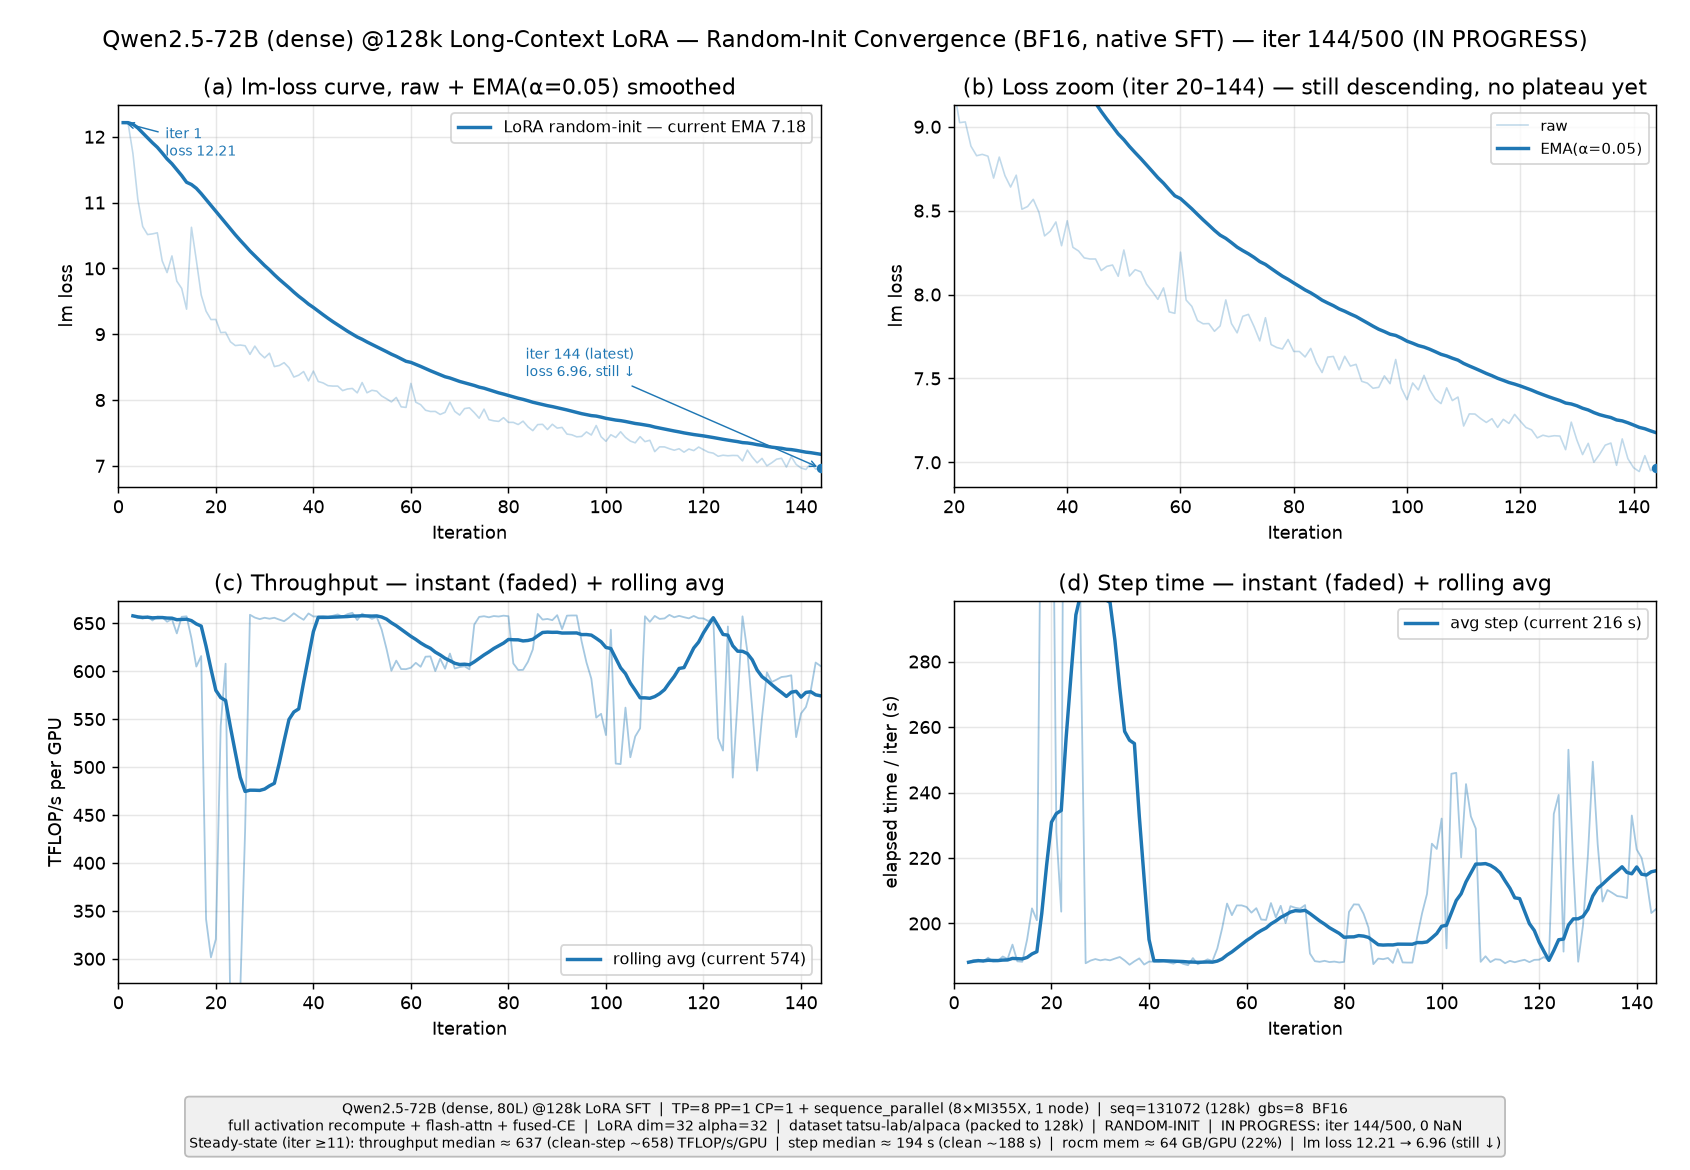
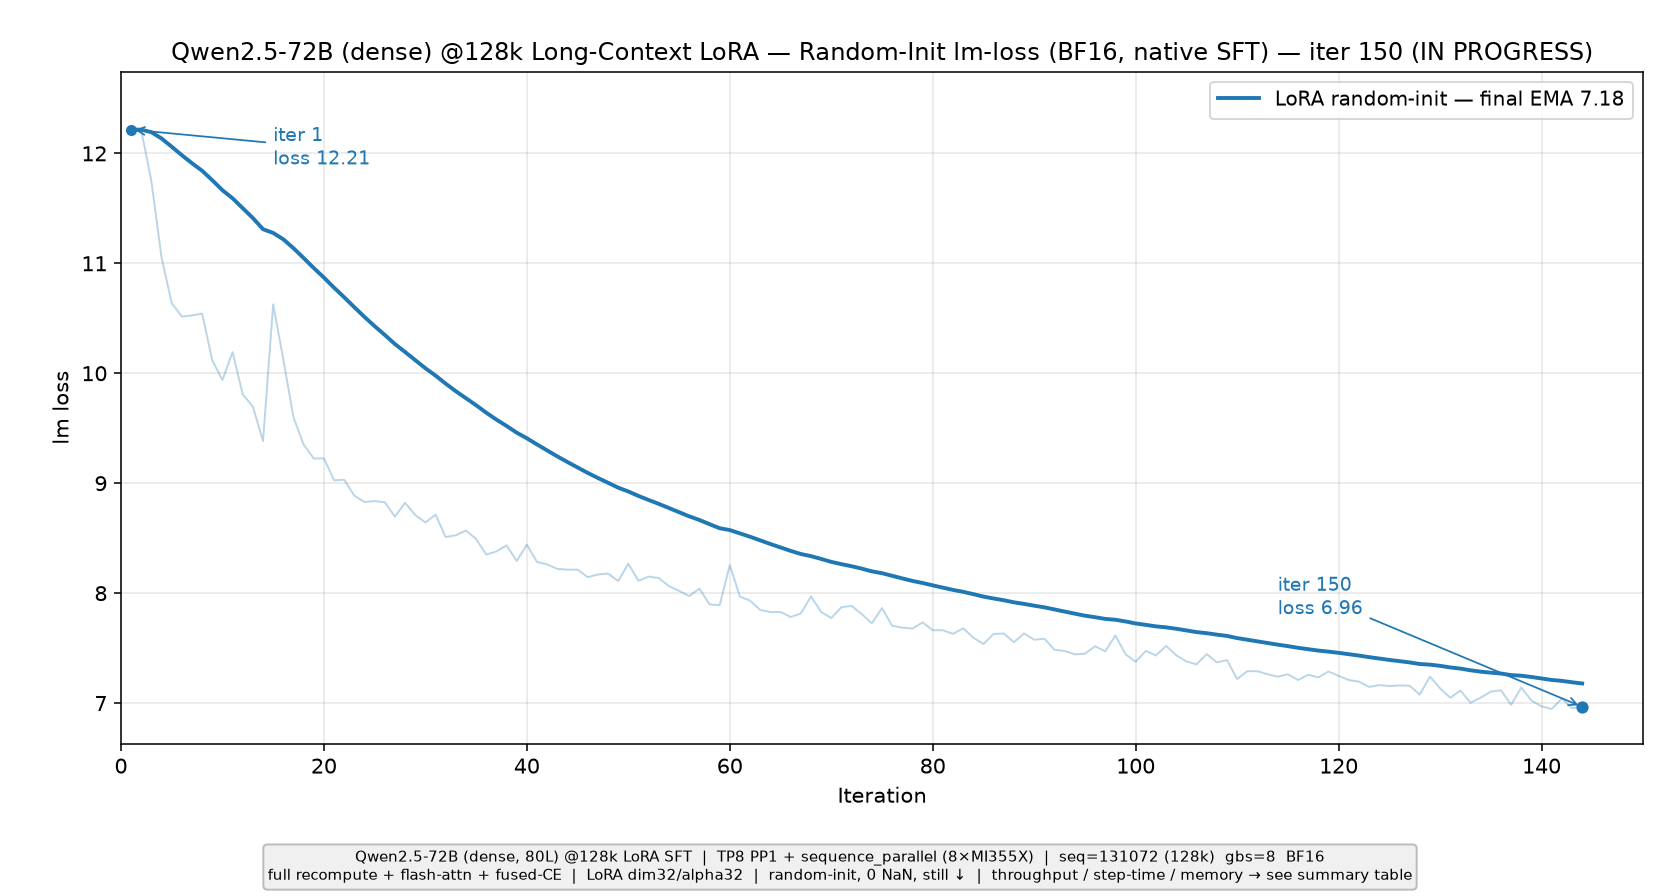
Section 7: single loss-curve figures; 72B fields 144->150; polish

diff --git a/README.md b/README.md
@@ -350,15 +350,15 @@ iteration        5/      20 | elapsed time per iteration (ms): 35000.0 | through
 
 ## 7. 实验结果
 
-本节给出**两个**实验的实测结果，均为**单节点 8×MI355X、随机初始化、Primus 原生 SFT-LoRA（BF16）** 路径，各自附「4 面板收敛/吞吐图 + 结果指标汇总表」：**7.1** 为 Qwen3-235B-A22B (MoE) 已完整跑完 500 步的单机 LoRA；**7.2** 为 Qwen2.5-72B 在 **128k 长上下文**下的 LoRA（作业仍在训练中，用当前数据）。
+本节给出**两个**实验的实测结果，均为**单节点 8×MI355X、随机初始化、Primus 原生 SFT-LoRA（BF16）** 路径，各自附「`lm loss` 收敛曲线图 + 结果指标汇总表」（吞吐、单步耗时、显存等稳态指标列在各自的汇总表里）：**7.1** 为 Qwen3-235B-A22B (MoE) 已完整跑完 500 步的单机 LoRA；**7.2** 为 Qwen2.5-72B 在 **128k 长上下文**下的 LoRA（作业仍在训练中，用当前数据）。
 
 ### 7.1 Qwen3-235B-A22B (MoE) 单机 LoRA
 
-把 `train_iters` 调大到 **500** 跑完整收敛，本次作业已**完整跑完 500/500 步**（全程 **0 NaN**，训练墙钟约 **5.2 小时**）。随机初始化 LoRA 的 `lm loss` 从第 1 步的 **12.06** 快速下降，约在**第 60–80 步**进入 **~9.4** 的平台（随机基座 + 低秩 LoRA 能达到的固有下限，之后不再明显下降），最终第 500 步收在 **9.41**；稳态单卡吞吐中位数约 **272 TFLOP/s/GPU**、单步约 **35.7 s**、每卡显存约 **206 GB / 288 GB**：
+把 `train_iters` 调大到 **500** 跑完整收敛，本次作业已**完整跑完 500/500 步**（全程 **0 NaN**，训练墙钟约 **5.2 小时**）。随机初始化 LoRA 的 `lm loss` 从第 1 步的 **12.06** 快速下降，约在**第 60–80 步**进入 **~9.4** 的平台（随机基座 + 低秩 LoRA 能达到的固有下限，之后不再明显下降），最终第 500 步收在 **9.41**。下图为完整 500 步的 `lm loss` 收敛曲线（稳态吞吐、单步耗时、每卡显存等见后面的汇总表）：
 
-![Qwen3-235B-A22B LoRA 收敛与吞吐总结](qwen3_235b_lora_convergence_summary.png)
+![Qwen3-235B-A22B LoRA lm loss 收敛曲线](qwen3_235b_lora_convergence_summary.png)
 
-> 图中 (a) 为完整 500 步 loss 曲线（淡线原始值 + 粗线 EMA 平滑），(b) 为稳态区放大（EMA 缓降至 ~9.4 平台），(c)/(d) 分别为单卡吞吐与单步耗时（淡线瞬时值、粗线 15 步滑动平均）。第 212 步有一次孤立的 I/O 卡顿（单步 ~486 s、吞吐骤降），已落在 (c)/(d) 纵轴范围之外，不影响整体判断。
+> 图为完整 500 步的 `lm loss` 曲线：淡线为原始逐步值、粗线为 EMA(α=0.05) 平滑；已标注 iter 1（12.06）与 iter 500（9.41）。稳态吞吐、单步耗时与每卡显存等指标见下方汇总表。
 
 #### 结果指标汇总表
 
@@ -381,11 +381,11 @@ iteration        5/      20 | elapsed time per iteration (ms): 35000.0 | through
 
 ### 7.2 Qwen2.5-72B @128k 长上下文 LoRA
 
-**Qwen2.5-72B（稠密 dense，80 层）在 128k 长上下文下的 LoRA SFT**（BF16、随机初始化、单节点 8×MI355X）。与 7.1 最大的不同是**极长序列**：`seq_length=131072`（128k）、`global_batch_size=8`（每步约 **105 万 token**），靠 **TP=8 + `sequence_parallel`**（不用 CP —— 原生 SFT 前向暂不支持 CP 序列切分）配合**全量激活重算 + flash-attn + 融合 CE**，把每卡显存压到约 **64 GB**。该作业**仍在训练中**，下图与下表均为**截至 iter 150** 的实测快照：`lm loss` 从第 1 步的 **12.21** 持续降到当前的 **6.96**（**仍在下降、尚未走平**）；稳态吞吐洁净步约 **655 TFLOP/s/GPU**（中位数 637、均值 605，含周期性掉速），洁净步单步约 **188 s**，每卡 rocm 显存约 **64 GB / 288 GB（~22%）**，全程 **0 NaN**：
+**Qwen2.5-72B（稠密 dense，80 层）在 128k 长上下文下的 LoRA SFT**（BF16、随机初始化、单节点 8×MI355X）。与 7.1 最大的不同是**极长序列**：`seq_length=131072`（128k）、`global_batch_size=8`（每步约 **105 万 token**），靠 **TP=8 + `sequence_parallel`**（不用 CP —— 原生 SFT 前向暂不支持 CP 序列切分）配合**全量激活重算 + flash-attn + 融合 CE**，把每卡显存压到约 **64 GB**。该作业**仍在训练中**，`lm loss` 从第 1 步的 **12.21** 持续降到**截至 iter 150** 的 **6.96**（**仍在下降、尚未走平**），全程 **0 NaN**。下图为该 `lm loss` 收敛曲线（稳态吞吐、单步耗时、每卡显存等见后面的汇总表）：
 
-![Qwen2.5-72B @128k 长上下文 LoRA 收敛与吞吐总结](qwen25_72b_128k_lora_convergence_summary.png)
+![Qwen2.5-72B @128k 长上下文 LoRA lm loss 收敛曲线](qwen25_72b_128k_lora_convergence_summary.png)
 
-> 图中 (a) 为 `lm loss` 曲线（淡线原始 + 粗线 EMA），(b) 为 iter 20 起的放大（EMA 仍单调下降、无平台），(c)/(d) 为单卡吞吐与单步耗时。吞吐存在**周期性掉速**（洁净步 ~655 TFLOP/s ≈ 188 s，掉速步降到 ~240–550 TFLOP/s、对应单步升到 ~220–520 s），(c)/(d) 已对极端慢步做纵轴限幅。另注：日志中 `rocm mem usage` 恒为 ~64 GB（存活张量），而 `hip mem usage` 会间歇性冲到接近满卡（128k 激活 + `expandable_segments` 分配器预留所致），属预期现象。
+> 图为 `lm loss` 曲线：淡线为原始逐步值、粗线为 EMA(α=0.05) 平滑；已标注 iter 1（12.21）与截至 iter 150 的 **6.96**，曲线**仍单调下降、尚未走平**。稳态吞吐、单步耗时与显存见下方汇总表。（显存补充：日志中 `rocm mem usage` 恒为 ~64 GB ＝存活张量，而 `hip mem usage` 会间歇冲到接近满卡，是 128k 激活 + `expandable_segments` 分配器预留所致，属预期现象。）
 
 #### 结果指标汇总表
 